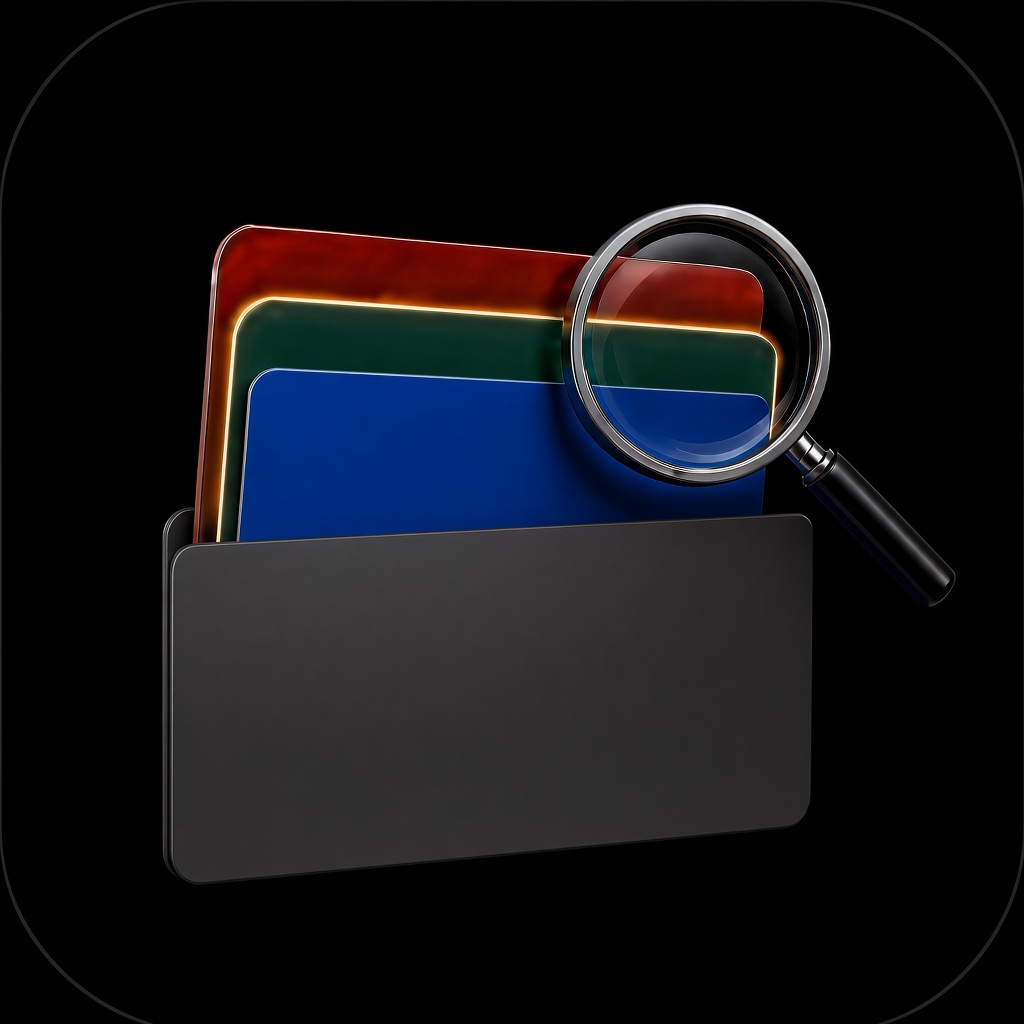
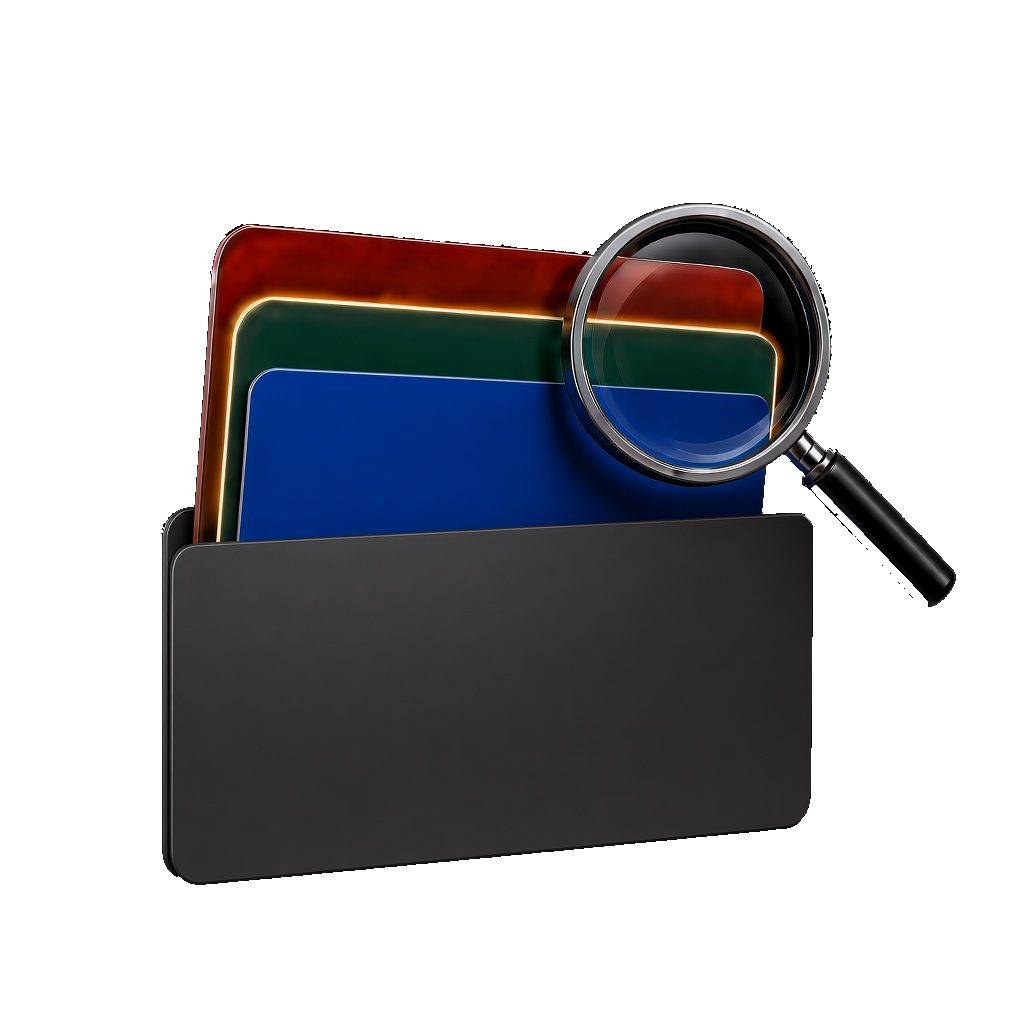
Knock out the black square behind the wallet mark.
The baked-in rounded square showed through on the login page and the home header.

diff --git a/mobile/components/HomeHeader.js b/mobile/components/HomeHeader.js
@@ -25,7 +25,7 @@ export default function HomeHeader({ user, onAvatarPress }) {
     <View style={[s.header, { paddingTop: insets.top + 10 }]}>
       <View style={s.logoRow}>
         <Image
-          source={require('../assets/icon.png')}
+          source={require('../assets/logo.png')}
           style={s.logoIcon}
           accessible={false}
         />

diff --git a/mobile/app/login.js b/mobile/app/login.js
@@ -147,7 +147,7 @@ export default function LoginScreen() {
       <View style={s.container}>
 
         <Image
-          source={require('../assets/icon.png')}
+          source={require('../assets/logo.png')}
           style={s.icon}
           accessible={false}
         />
